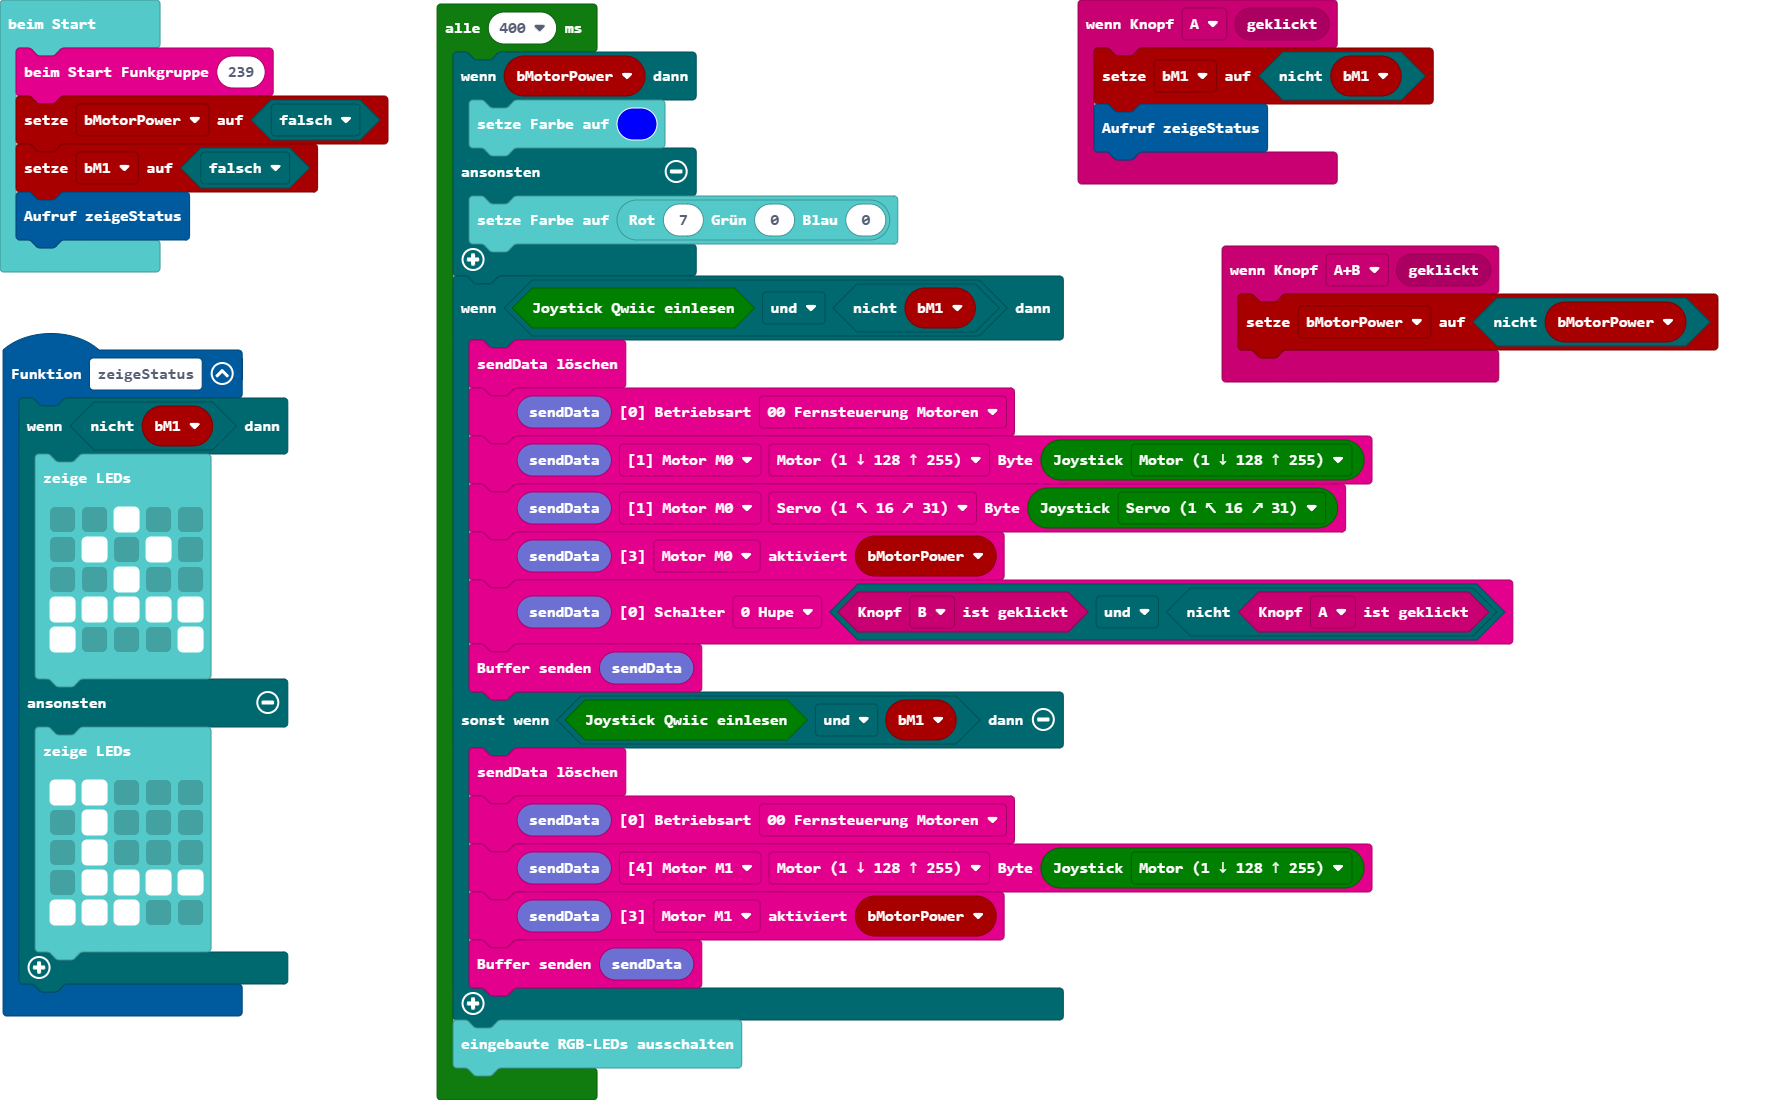
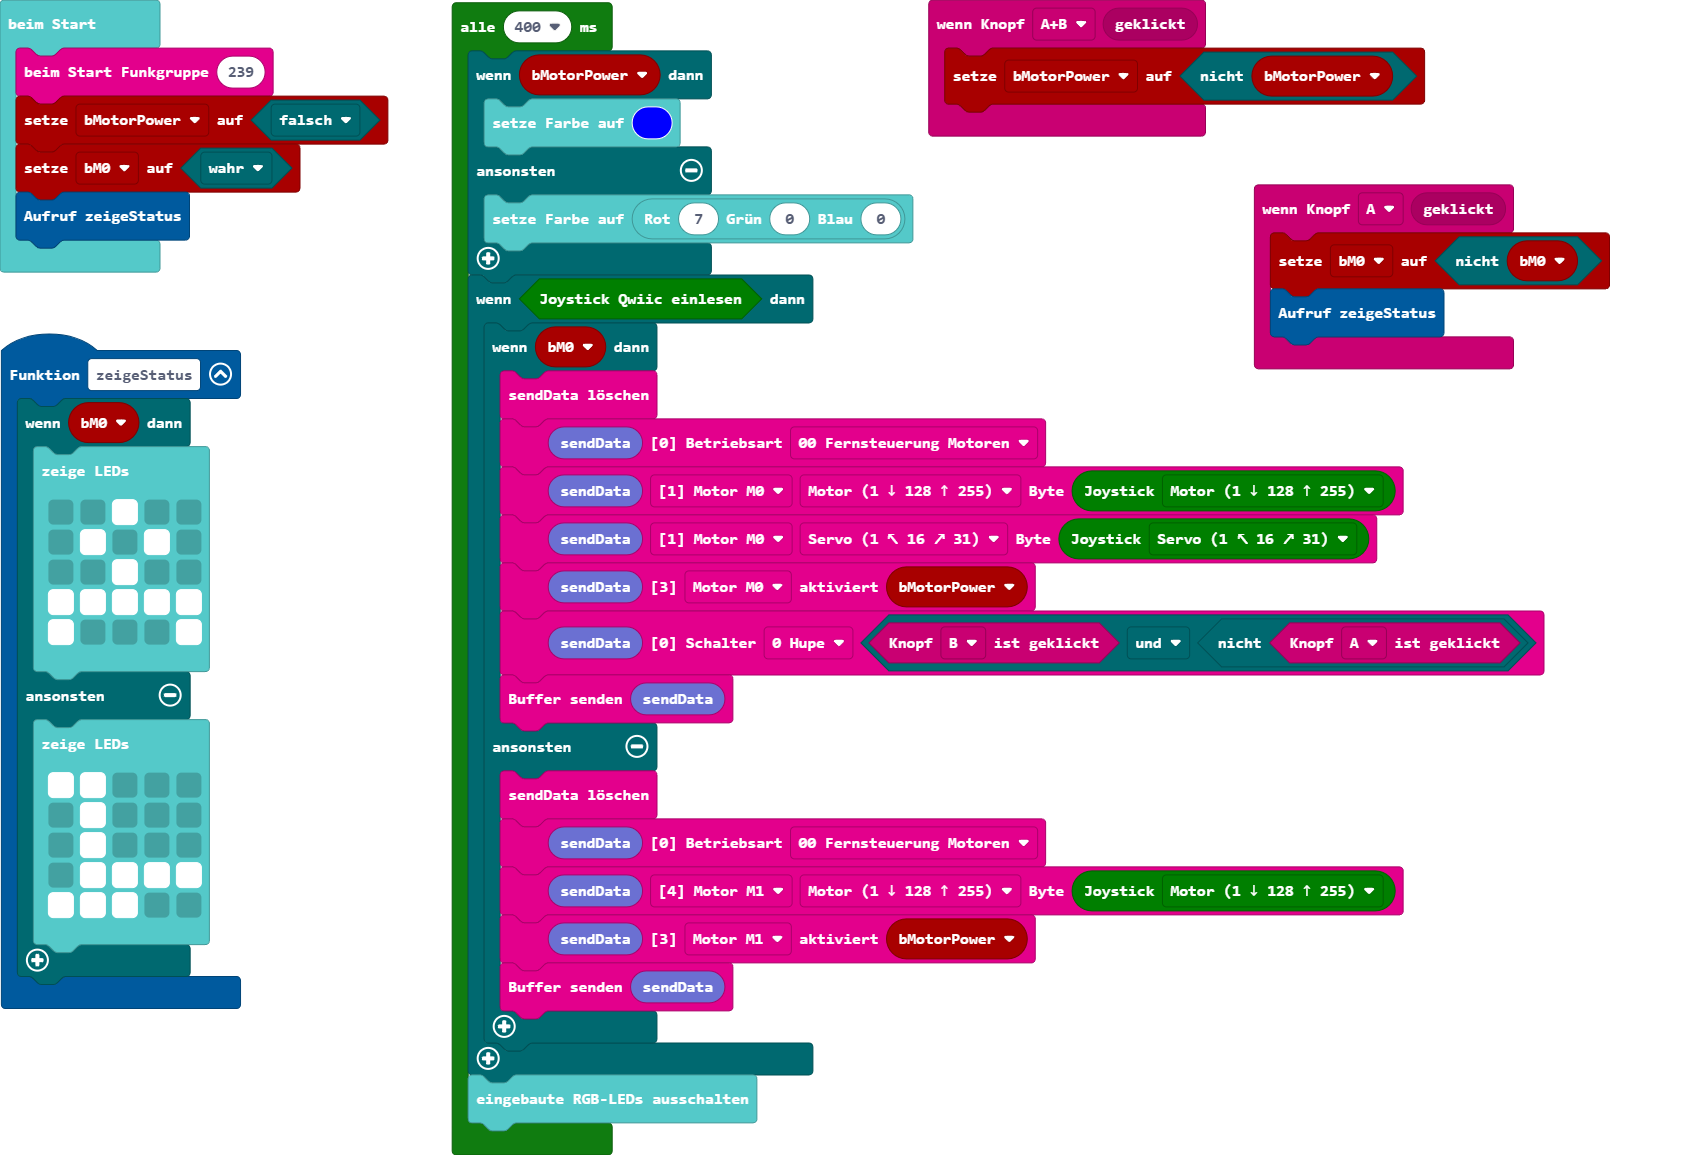
Aktualisiere pxt.json, main.blocks, main.ts

diff --git a/main.ts b/main.ts
@@ -1,12 +1,12 @@
 input.onButtonEvent(Button.A, input.buttonEventClick(), function () {
-    bM1 = !(bM1)
+    bM0 = !(bM0)
     zeigeStatus()
 })
 input.onButtonEvent(Button.AB, input.buttonEventClick(), function () {
     bMotorPower = !(bMotorPower)
 })
 function zeigeStatus () {
-    if (!(bM1)) {
+    if (bM0) {
         basic.showLeds(`
             . . # . .
             . # . # .
@@ -24,11 +24,11 @@ function zeigeStatus () {
             `)
     }
 }
-let bM1 = false
+let bM0 = false
 let bMotorPower = false
 radio.beimStart(239)
 bMotorPower = false
-bM1 = false
+bM0 = true
 zeigeStatus()
 loops.everyInterval(400, function () {
     if (bMotorPower) {
@@ -36,20 +36,22 @@ loops.everyInterval(400, function () {
     } else {
         basic.setLedColor(basic.rgb(7, 0, 0))
     }
-    if (radiosender.joystickQwiic() && !(bM1)) {
-        radio.fill_sendBuffer19()
-        radio.setBetriebsart(radio.radio_sendBuffer19(), radio.e0Betriebsart.p0)
-        radio.setByte(radio.radio_sendBuffer19(), radio.eBufferPointer.m0, radio.eBufferOffset.b0_Motor, radiosender.joystickValues(radiosender.eJoystickValue.motor))
-        radio.setByte(radio.radio_sendBuffer19(), radio.eBufferPointer.m0, radio.eBufferOffset.b1_Servo, radiosender.joystickValues(radiosender.eJoystickValue.servo16))
-        radio.setaktiviert(radio.radio_sendBuffer19(), radio.e3aktiviert.m0, bMotorPower)
-        radio.setSchalter(radio.radio_sendBuffer19(), radio.e0Schalter.b0, input.buttonIsPressed(Button.B) && !(input.buttonIsPressed(Button.A)))
-        radio.sendData(radio.radio_sendBuffer19())
-    } else if (radiosender.joystickQwiic() && bM1) {
-        radio.fill_sendBuffer19()
-        radio.setBetriebsart(radio.radio_sendBuffer19(), radio.e0Betriebsart.p0)
-        radio.setByte(radio.radio_sendBuffer19(), radio.eBufferPointer.m1, radio.eBufferOffset.b0_Motor, radiosender.joystickValues(radiosender.eJoystickValue.motor))
-        radio.setaktiviert(radio.radio_sendBuffer19(), radio.e3aktiviert.m1, bMotorPower)
-        radio.sendData(radio.radio_sendBuffer19())
+    if (radiosender.joystickQwiic()) {
+        if (bM0) {
+            radio.fill_sendBuffer19()
+            radio.setBetriebsart(radio.radio_sendBuffer19(), radio.e0Betriebsart.p0)
+            radio.setByte(radio.radio_sendBuffer19(), radio.eBufferPointer.m0, radio.eBufferOffset.b0_Motor, radiosender.joystickValues(radiosender.eJoystickValue.motor))
+            radio.setByte(radio.radio_sendBuffer19(), radio.eBufferPointer.m0, radio.eBufferOffset.b1_Servo, radiosender.joystickValues(radiosender.eJoystickValue.servo16))
+            radio.setaktiviert(radio.radio_sendBuffer19(), radio.e3aktiviert.m0, bMotorPower)
+            radio.setSchalter(radio.radio_sendBuffer19(), radio.e0Schalter.b0, input.buttonIsPressed(Button.B) && !(input.buttonIsPressed(Button.A)))
+            radio.sendData(radio.radio_sendBuffer19())
+        } else {
+            radio.fill_sendBuffer19()
+            radio.setBetriebsart(radio.radio_sendBuffer19(), radio.e0Betriebsart.p0)
+            radio.setByte(radio.radio_sendBuffer19(), radio.eBufferPointer.m1, radio.eBufferOffset.b0_Motor, radiosender.joystickValues(radiosender.eJoystickValue.motor))
+            radio.setaktiviert(radio.radio_sendBuffer19(), radio.e3aktiviert.m1, bMotorPower)
+            radio.sendData(radio.radio_sendBuffer19())
+        }
     }
     basic.turnRgbLedOff()
 })
